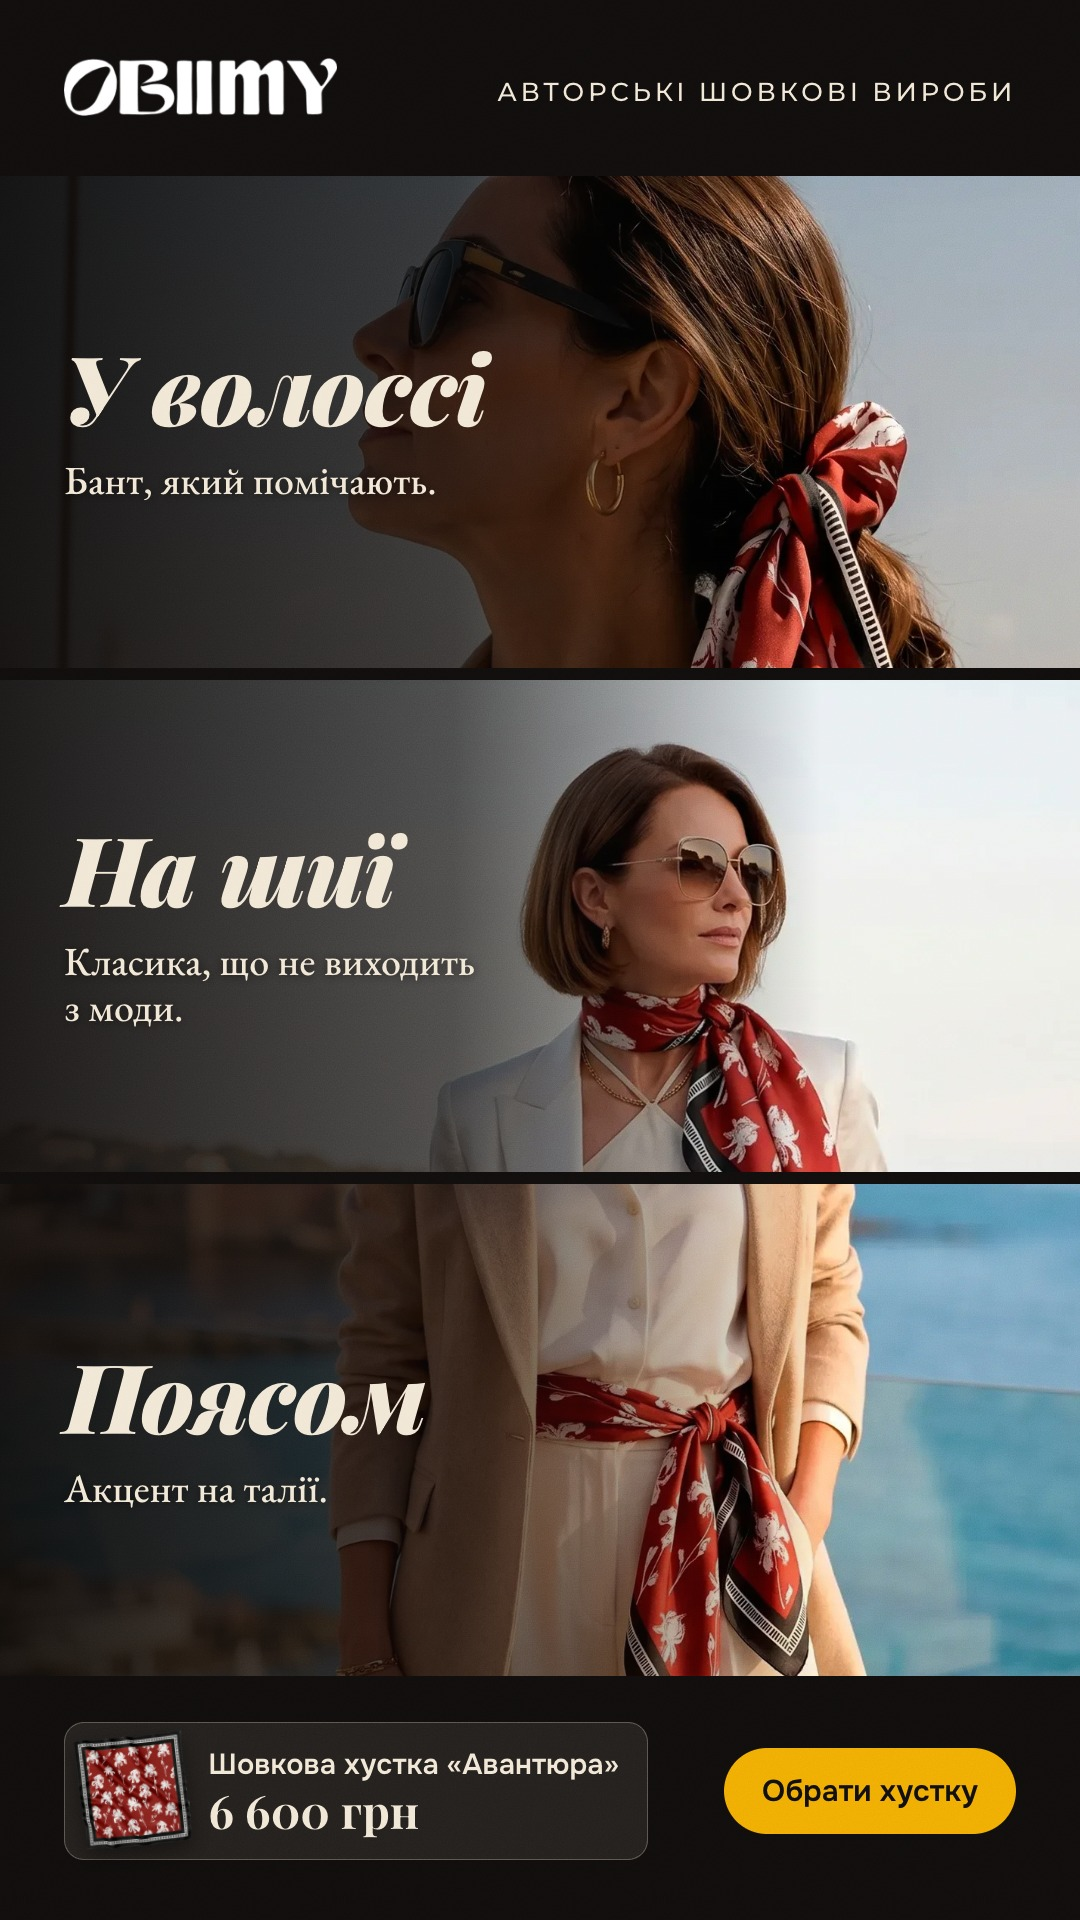
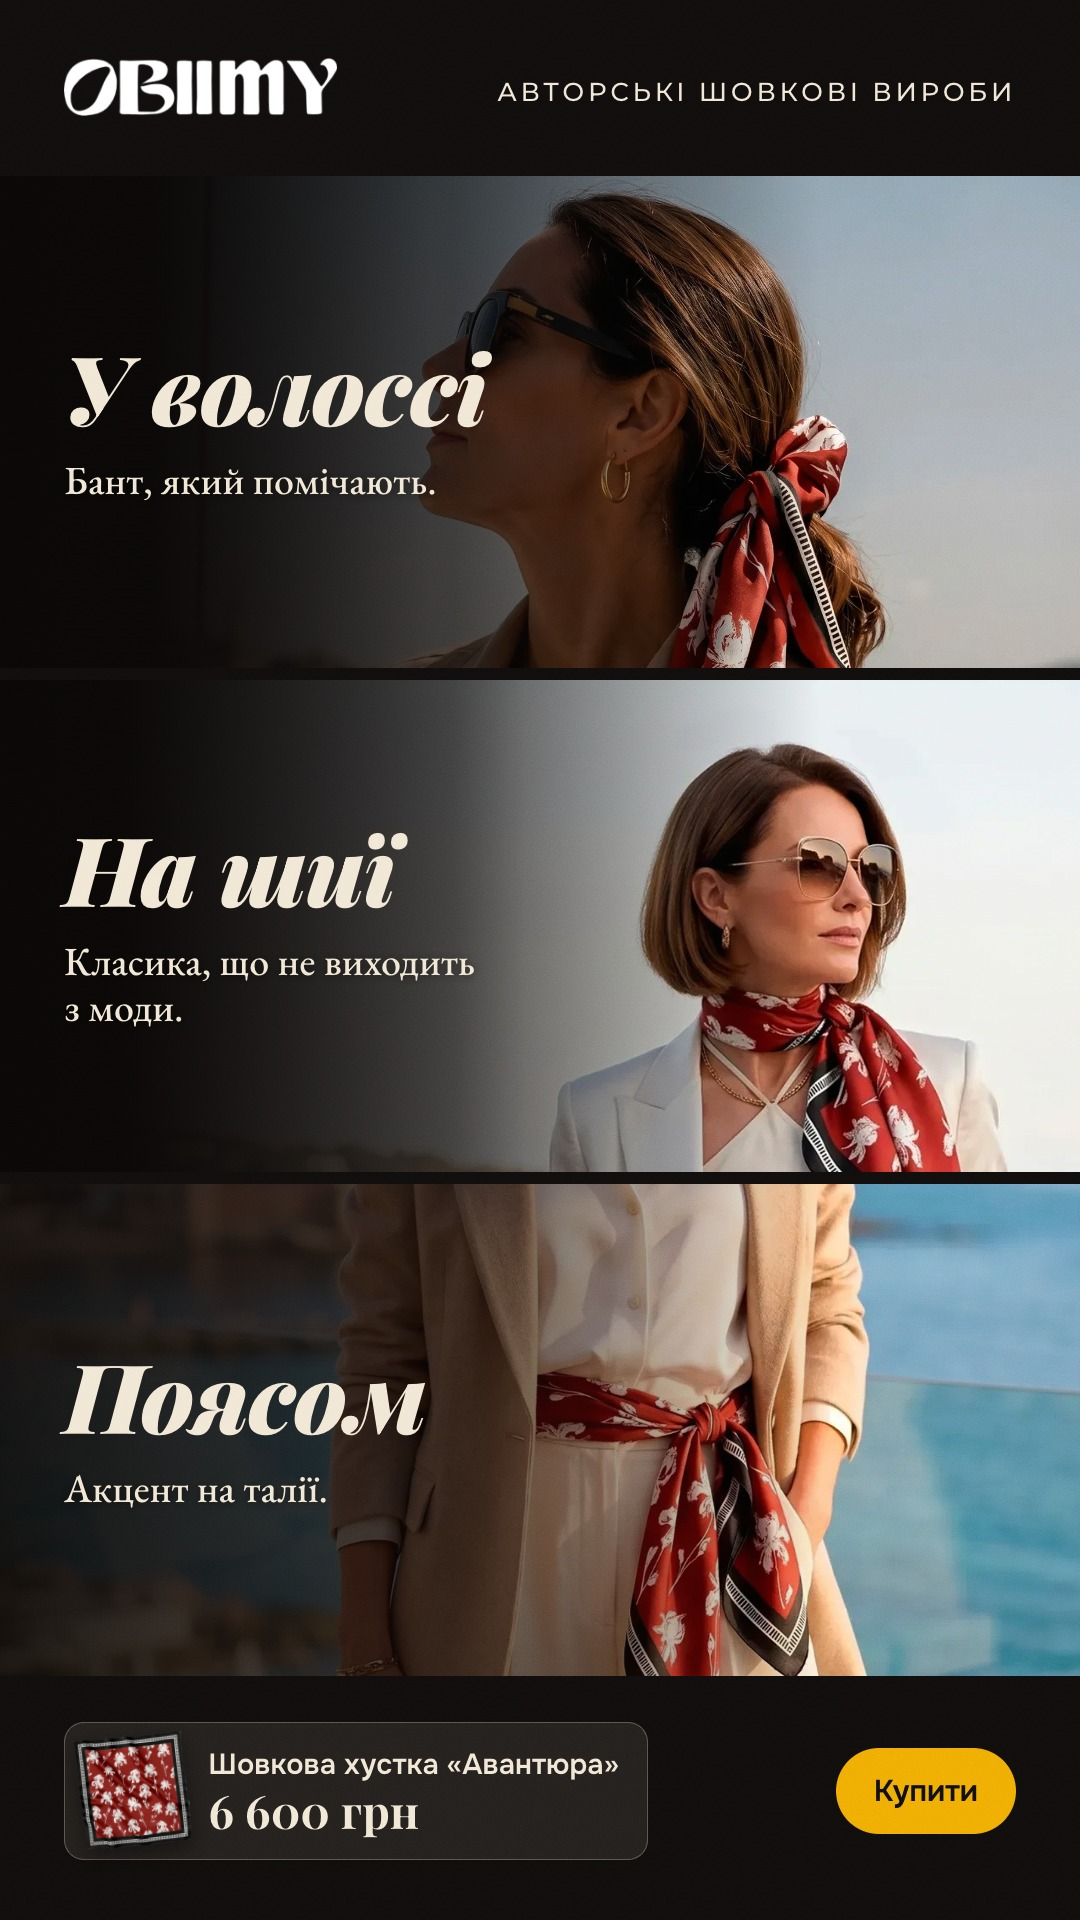
t05: top photo smaller, top and middle bands shifted right, button «Купити»

diff --git a/site/creatives.html b/site/creatives.html
@@ -93,8 +93,8 @@ footer { margin-top: 72px; color: var(--ink2); font-size: .85rem; border-top: 1p
         <figcaption><label class="pick"><input type="checkbox" data-id="solo-one/g07-scrunchie-gift.jpg"><span>Залишити</span></label><span class="fid">g07</span><a href="creatives/solo-one/g07-scrunchie-gift.jpg?v=933e0425" download="g07-scrunchie-gift.jpg">JPG ↓</a></figcaption></figure><figure class="c st" data-f="st" data-id="solo-one/g08-scarf-gift-iskra.jpg"><a href="creatives/solo-one/g08-scarf-gift-iskra.jpg?v=e2d834a8" target="_blank" rel="noopener"><img src="creatives/solo-one/g08-scarf-gift-iskra-540.webp?v=e2d834a8" alt="Подарункові · варіант A" loading="lazy" width="540" height="960"></a>
         <figcaption><label class="pick"><input type="checkbox" data-id="solo-one/g08-scarf-gift-iskra.jpg"><span>Залишити</span></label><span class="fid">g08</span><a href="creatives/solo-one/g08-scarf-gift-iskra.jpg?v=e2d834a8" download="g08-scarf-gift-iskra.jpg">JPG ↓</a></figcaption></figure><figure class="c st" data-f="st" data-id="solo-orig/o12-contact-iskra.jpg"><a href="creatives/solo-orig/o12-contact-iskra.jpg?v=85886eb4" target="_blank" rel="noopener"><img src="creatives/solo-orig/o12-contact-iskra-540.webp?v=85886eb4" alt="Оригінальні концепції" loading="lazy" width="540" height="960"></a>
         <figcaption><label class="pick"><input type="checkbox" data-id="solo-orig/o12-contact-iskra.jpg"><span>Залишити</span></label><span class="fid">o12</span><a href="creatives/solo-orig/o12-contact-iskra.jpg?v=85886eb4" download="o12-contact-iskra.jpg">JPG ↓</a></figcaption></figure><figure class="c st" data-f="st" data-id="solo-tri/t01-decades.jpg"><a href="creatives/solo-tri/t01-decades.jpg?v=e7948695" target="_blank" rel="noopener"><img src="creatives/solo-tri/t01-decades-540.webp?v=e7948695" alt="Смуги-історії · варіант A" loading="lazy" width="540" height="960"></a>
-        <figcaption><label class="pick"><input type="checkbox" data-id="solo-tri/t01-decades.jpg"><span>Залишити</span></label><span class="fid">t01</span><a href="creatives/solo-tri/t01-decades.jpg?v=e7948695" download="t01-decades.jpg">JPG ↓</a></figcaption></figure><figure class="c st" data-f="st" data-id="solo-tri/t05-avantiura-ways.jpg"><a href="creatives/solo-tri/t05-avantiura-ways.jpg?v=382de7ef" target="_blank" rel="noopener"><img src="creatives/solo-tri/t05-avantiura-ways-540.webp?v=382de7ef" alt="Смуги-історії · варіант A" loading="lazy" width="540" height="960"></a>
-        <figcaption><label class="pick"><input type="checkbox" data-id="solo-tri/t05-avantiura-ways.jpg"><span>Залишити</span></label><span class="fid">t05</span><a href="creatives/solo-tri/t05-avantiura-ways.jpg?v=382de7ef" download="t05-avantiura-ways.jpg">JPG ↓</a></figcaption></figure><figure class="c st" data-f="st" data-id="solo-main/p01-quiet-luxury.jpg"><a href="creatives/solo-main/p01-quiet-luxury.jpg?v=ed75c614" target="_blank" rel="noopener"><img src="creatives/solo-main/p01-quiet-luxury-540.webp?v=ed75c614" alt="Варіант A · тихий преміум" loading="lazy" width="540" height="960"></a>
+        <figcaption><label class="pick"><input type="checkbox" data-id="solo-tri/t01-decades.jpg"><span>Залишити</span></label><span class="fid">t01</span><a href="creatives/solo-tri/t01-decades.jpg?v=e7948695" download="t01-decades.jpg">JPG ↓</a></figcaption></figure><figure class="c st" data-f="st" data-id="solo-tri/t05-avantiura-ways.jpg"><a href="creatives/solo-tri/t05-avantiura-ways.jpg?v=cb797d62" target="_blank" rel="noopener"><img src="creatives/solo-tri/t05-avantiura-ways-540.webp?v=cb797d62" alt="Смуги-історії · варіант A" loading="lazy" width="540" height="960"></a>
+        <figcaption><label class="pick"><input type="checkbox" data-id="solo-tri/t05-avantiura-ways.jpg"><span>Залишити</span></label><span class="fid">t05</span><a href="creatives/solo-tri/t05-avantiura-ways.jpg?v=cb797d62" download="t05-avantiura-ways.jpg">JPG ↓</a></figcaption></figure><figure class="c st" data-f="st" data-id="solo-main/p01-quiet-luxury.jpg"><a href="creatives/solo-main/p01-quiet-luxury.jpg?v=ed75c614" target="_blank" rel="noopener"><img src="creatives/solo-main/p01-quiet-luxury-540.webp?v=ed75c614" alt="Варіант A · тихий преміум" loading="lazy" width="540" height="960"></a>
         <figcaption><label class="pick"><input type="checkbox" data-id="solo-main/p01-quiet-luxury.jpg"><span>Залишити</span></label><span class="fid">p01</span><a href="creatives/solo-main/p01-quiet-luxury.jpg?v=ed75c614" download="p01-quiet-luxury.jpg">JPG ↓</a></figcaption></figure><figure class="c st" data-f="st" data-id="solo-main/p05-character.jpg"><a href="creatives/solo-main/p05-character.jpg?v=5dff62bb" target="_blank" rel="noopener"><img src="creatives/solo-main/p05-character-540.webp?v=5dff62bb" alt="Варіант A · тихий преміум" loading="lazy" width="540" height="960"></a>
         <figcaption><label class="pick"><input type="checkbox" data-id="solo-main/p05-character.jpg"><span>Залишити</span></label><span class="fid">p05</span><a href="creatives/solo-main/p05-character.jpg?v=5dff62bb" download="p05-character.jpg">JPG ↓</a></figcaption></figure><figure class="c st" data-f="st" data-id="solo-main/p06-noticed.jpg"><a href="creatives/solo-main/p06-noticed.jpg?v=22dc43d3" target="_blank" rel="noopener"><img src="creatives/solo-main/p06-noticed-540.webp?v=22dc43d3" alt="Варіант A · тихий преміум" loading="lazy" width="540" height="960"></a>
         <figcaption><label class="pick"><input type="checkbox" data-id="solo-main/p06-noticed.jpg"><span>Залишити</span></label><span class="fid">p06</span><a href="creatives/solo-main/p06-noticed.jpg?v=22dc43d3" download="p06-noticed.jpg">JPG ↓</a></figcaption></figure><figure class="c st" data-f="st" data-id="solo-main/p07-whole-look.jpg"><a href="creatives/solo-main/p07-whole-look.jpg?v=38e9db4b" target="_blank" rel="noopener"><img src="creatives/solo-main/p07-whole-look-540.webp?v=38e9db4b" alt="Варіант A · тихий преміум" loading="lazy" width="540" height="960"></a>

diff --git a/ads/solo/solo6.html b/ads/solo/solo6.html
@@ -97,9 +97,9 @@ body { margin: 0; background: #555; font-family: 'Onest', Arial, sans-serif; -we
   <img src="../../brand/logo-white.png" alt="" style="left:64px;top:58px;height:58px">
   <p style="right:64px;top:76px;font-family:Montserrat,sans-serif;font-size:26px;font-weight:500;letter-spacing:.14em;text-transform:uppercase;white-space:nowrap;color:#F3EADB">Авторські шовкові вироби</p>
   
-  <div class="band" style="top:176px;height:492px"><img src="src/avantiura-88-5.webp" alt="" style="object-position:62% 12%;;width:112%"><div class="veil"></div>
+  <div class="band" style="top:176px;height:492px"><img src="src/avantiura-88-5.webp" alt="" style="object-position:50% 0%;;width:86%;margin-left:auto;-webkit-mask-image:linear-gradient(90deg,transparent 0,#000 30%);mask-image:linear-gradient(90deg,transparent 0,#000 30%)"><div class="veil"></div>
     <div class="txt"><p class="big" style="font-size:96px">У волоссі</p><p class="small" style="font-size:40px;max-width:480px;margin-top:26px">Бант, який помічають.</p></div></div>
-  <div class="band" style="top:680px;height:492px"><img src="src/avantiura-88-4.webp" alt="" style="object-position:50% 6%;;width:125%"><div class="veil"></div>
+  <div class="band" style="top:680px;height:492px"><img src="src/avantiura-88-4.webp" alt="" style="object-position:50% 6%;;width:125%;margin-left:120px;-webkit-mask-image:linear-gradient(90deg,transparent 0,#000 30%);mask-image:linear-gradient(90deg,transparent 0,#000 30%)"><div class="veil"></div>
     <div class="txt"><p class="big" style="font-size:96px">На шиї</p><p class="small" style="font-size:40px;max-width:480px;margin-top:26px">Класика, що не виходить<br>з моди.</p></div></div>
   <div class="band" style="top:1184px;height:492px"><img src="src/avantiura-88-2.webp" alt="" style="object-position:45% 76%;;width:112%"><div class="veil"></div>
     <div class="txt"><p class="big" style="font-size:96px">Поясом</p><p class="small" style="font-size:40px;max-width:480px;margin-top:26px">Акцент на талії.</p></div></div>
@@ -109,7 +109,7 @@ body { margin: 0; background: #555; font-family: 'Onest', Arial, sans-serif; -we
       <div style="display:flex;align-items:center;flex:none"><img src="src/avantiura-88-1-cut.webp" alt="" style="height:112px;width:auto;max-width:112px;object-fit:contain;margin-left:0px;filter:drop-shadow(0 8px 10px rgba(0,0,0,.4));transform:rotate(-6deg)"></div>
       <div style="min-width:0"><p style="font-size:29px;font-weight:600;line-height:1.18;text-wrap:balance">Шовкова хустка «Авантюра»</p><p style="font-family:'Playfair Display',serif;font-size:46px;line-height:1.05;margin-top:4px;white-space:nowrap">6 600 грн</p></div>
     </div>
-    <div class="cta" style="">Обрати хустку</div>
+    <div class="cta" style="">Купити</div>
   </div>
 </section>
 <!-- Formats -->

diff --git a/ads/solo/build6.py b/ads/solo/build6.py
@@ -99,7 +99,7 @@ def band(top, height, b, n=3):
     elif photo.startswith("url("):
         pic = f'<div style="position:absolute;inset:0;background:{photo} {pos}"></div>'
     else:
-        more = (";transform:scaleX(-1)" if extra.get("flip") else "") + (";width:%d%%" % extra["wide"] if extra.get("wide") else "") + (f";width:{fit}%;margin-left:auto;{fade}" if fit else "")
+        more = (";transform:scaleX(-1)" if extra.get("flip") else "") + (";width:%d%%" % extra["wide"] if extra.get("wide") else "") + (f";width:{fit}%;margin-left:auto;{fade}" if fit else "") + (f";margin-left:{extra['dx']}px;{fade}" if extra.get("dx") else "")
         pic = f'<img src="{S(photo)}" alt="" style="object-position:{pos};{FILTERS[look]}{more}">'
     return f'''
   <div class="band" style="top:{top}px;height:{height}px">{pic}<div class="veil"{' style="background:' + extra["veil"] + '"' if extra.get("veil") else ""}></div>
@@ -165,10 +165,10 @@ triptych("t04-flirt-three-ways", "Один принт — три образи", 
 ], "«Флірт»: хустка й твіллі одного принту.", (["flirt-65-1", "flirt-tw-5"], "Хустка й твіллі «Флірт»", "від 1 600 грн"), "Обрати «Флірт»", "Flirt three ways")
 
 triptych("t05-avantiura-ways", "Одна хустка — три способи", [
-    ("avantiura-88-5", "62% 12%", "У волоссі", "Бант, який помічають.", "raw", {"size": 96, "wide": 112}),
-    ("avantiura-88-4", "50% 6%", "На шиї", "Класика, що не виходить<br>з моди.", "raw", {"size": 96, "wide": 125}),
+    ("avantiura-88-5", "50% 0%", "У волоссі", "Бант, який помічають.", "raw", {"size": 96, "fit": 86}),
+    ("avantiura-88-4", "50% 6%", "На шиї", "Класика, що не виходить<br>з моди.", "raw", {"size": 96, "wide": 125, "dx": 120}),
     ("avantiura-88-2", "45% 76%", "Поясом", "Акцент на талії.", "raw", {"size": 96, "wide": 112}),
-], "", (["avantiura-88-1"], "Шовкова хустка «Авантюра»", "6 600 грн"), "Обрати хустку", "Avantiura three ways", plain=True)
+], "", (["avantiura-88-1"], "Шовкова хустка «Авантюра»", "6 600 грн"), "Купити", "Avantiura three ways", plain=True)
 
 triptych("t06-formats", "Оберіть свій формат", [
     ("krok-tw-2", "50% 45%", "Твіллі", "Стрічка у волосся, на сумку чи зап’ястя.", "raw", {"tag": "1 600 грн", "size": 110}),
